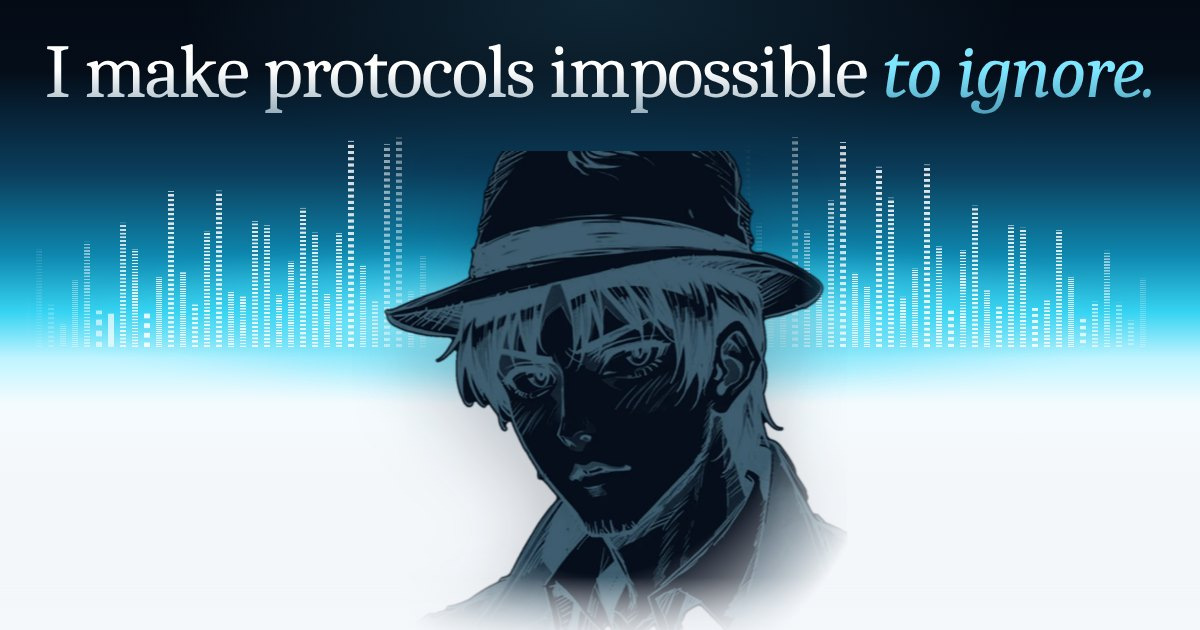
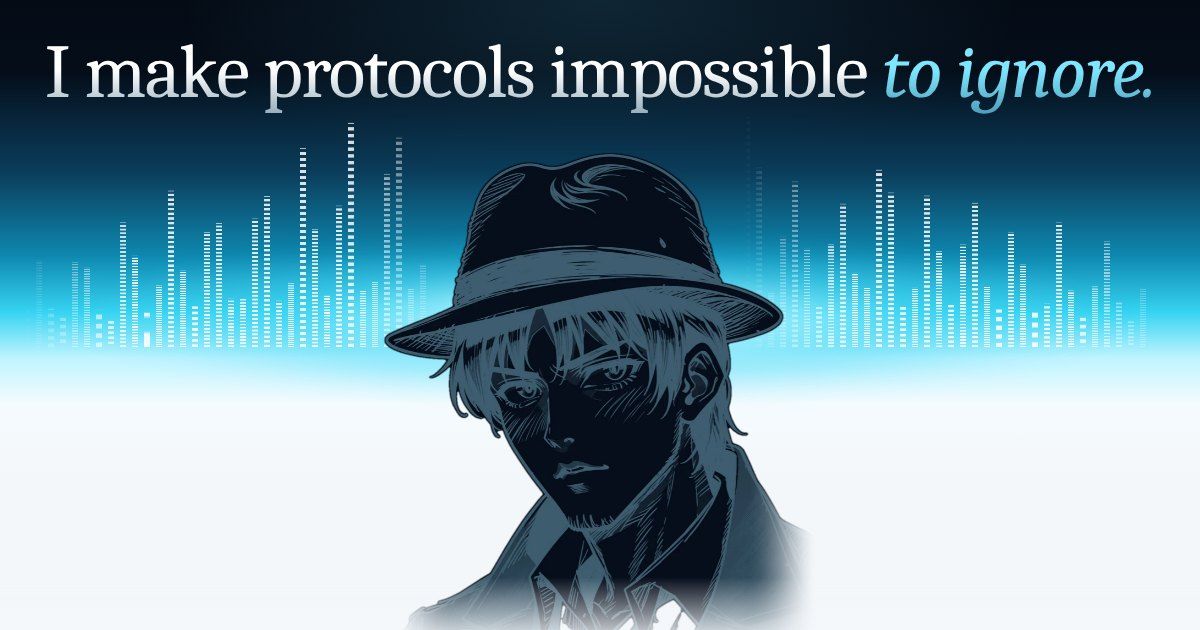
Hero: full-hat Crier silhouette with soft shoulder fade
Claude-Session: https://claude.ai/code/session_01LXnavDtvuHGP4uEcue1uqa

diff --git a/index.html b/index.html
@@ -97,7 +97,7 @@ button{font:inherit;color:inherit;cursor:pointer;background:none;border:0;paddin
 .eq.l{left:2%;width:36%}.eq.r{right:2%;width:36%}
 .eq i{flex:1;max-width:6px;height:100%;background:repeating-linear-gradient(0deg,rgba(255,255,255,.95) 0 4px,transparent 4px 8px);transform-origin:bottom;transform:scaleY(var(--h));animation:eq 2.6s ease-in-out infinite alternate;animation-delay:var(--d);opacity:.9}
 @keyframes eq{to{transform:scaleY(calc(var(--h)*.5))}}
-.fig{position:absolute;left:50%;bottom:0;height:86%;width:auto;max-width:none;transform:translateX(-50%);-webkit-mask:radial-gradient(62% 78% at 50% 34%,#000 66%,transparent 100%);mask:radial-gradient(62% 78% at 50% 34%,#000 66%,transparent 100%);filter:drop-shadow(0 30px 40px rgba(6,17,31,.25));animation:figIn 1.4s .3s cubic-bezier(.2,.7,.2,1) both}
+.fig{position:absolute;left:50%;bottom:0;height:86%;width:auto;max-width:none;transform:translateX(-50%);animation:figIn 1.4s .3s cubic-bezier(.2,.7,.2,1) both}
 @keyframes figIn{from{opacity:0;transform:translate(-50%,40px)}}
 .fade{position:absolute;left:0;right:0;bottom:0;height:12%;background:linear-gradient(180deg,transparent,var(--bg))}
 .float{position:absolute;z-index:3;width:260px;padding:14px;border-radius:16px;text-align:left;color:var(--ink);background:rgba(255,255,255,.94);border:1px solid var(--line);box-shadow:0 30px 60px -24px rgba(11,30,52,.35);backdrop-filter:blur(10px);animation:bob 7s ease-in-out infinite,up 1s .9s both}
